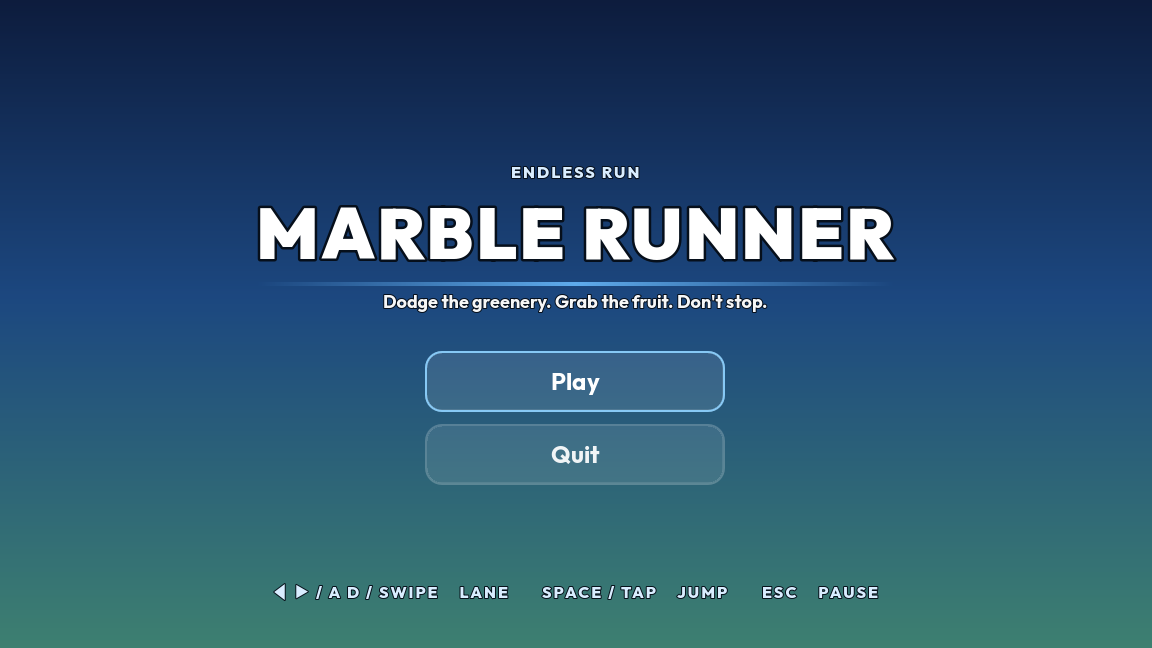
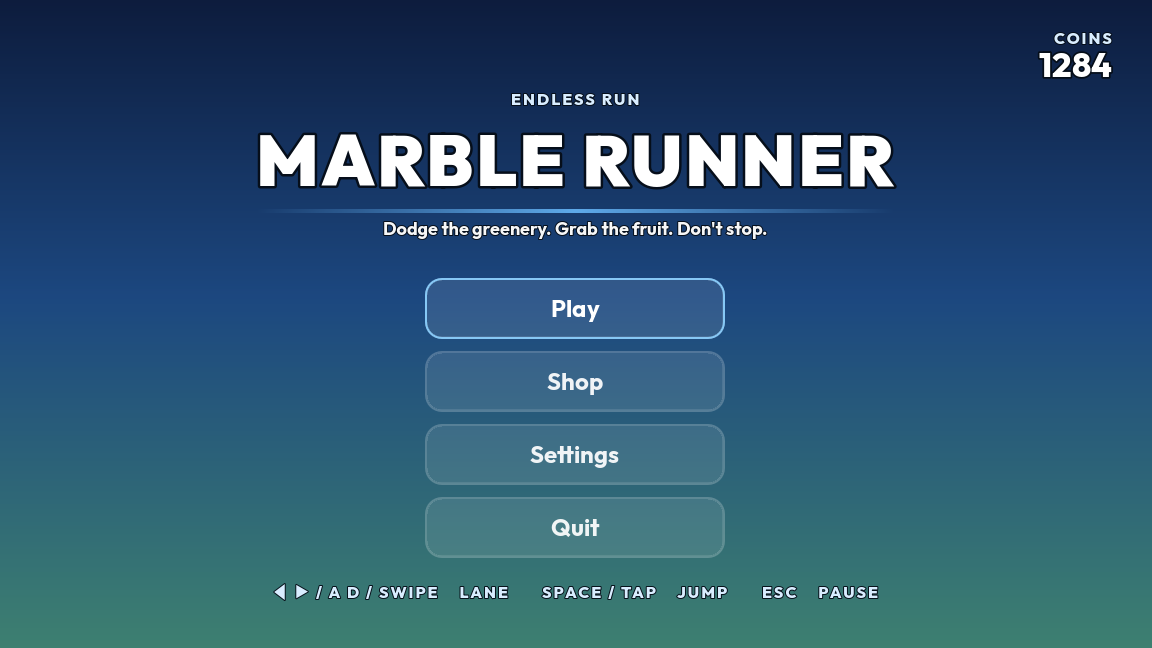
docs: cut the README back and refresh it for the current game
It had grown to a couple of hundred lines and still described a game
with three power-ups, no debuffs, a straight track and no revives.

- Halve the length. Drop How It Works, which docs/architecture.md covers
  properly, and trim every remaining section to what a reader needs.
- Rewrite Features around what the game actually does now: the curve,
  nine obstacles, eight pickups of which three are hostile, streaks,
  coins and biomes.
- Regenerate all four screenshots against the current build, and swap
  the pause shot for the shop.

diff --git a/README.md b/README.md
@@ -8,11 +8,9 @@
 
 **An endless runner that gets faster every metre you survive.**
 
-Roll a marble down a five-lane track that scrolls at you harder the longer you
-last. Dodge trees, bushes and crystals, hurdle the low stuff, grab fruit to
-build a **score multiplier**, and chase power-ups that buy you a few seconds of
-mercy. Obstacles are drawn from a weighted table, so no two runs lay out the
-same way.
+Roll a marble down a winding five-lane track. Dodge what you can't jump, grab
+fruit to build a multiplier, and pick your pickups carefully, because some of
+them are traps.
 
 [**Try it live**](https://kaushalmeena.github.io/marble-runner/)
 
@@ -24,7 +22,7 @@ same way.
 
 <table>
   <tr>
-    <td width="50%"><img src="screenshots/GamePlay.png" alt="Mid-run with a score multiplier and an active shield"></td>
+    <td width="50%"><img src="screenshots/GamePlay.png" alt="Mid-run on a curved desert stretch"></td>
     <td width="50%"><img src="screenshots/MainMenu.png" alt="Title screen"></td>
   </tr>
 </table>
@@ -34,8 +32,8 @@ same way.
 
 <table>
   <tr>
-    <td width="50%"><img src="screenshots/GameOver.png" alt="End-of-run summary with score, best and distance"></td>
-    <td width="50%"><img src="screenshots/PauseMenu.png" alt="Pause overlay"></td>
+    <td width="50%"><img src="screenshots/Shop.png" alt="Marble shop"></td>
+    <td width="50%"><img src="screenshots/GameOver.png" alt="End of run summary"></td>
   </tr>
 </table>
 
@@ -43,52 +41,30 @@ same way.
 
 ## Features
 
-- **Difficulty that ramps, not spikes** — speed climbs smoothly with distance
-  and is capped, while obstacles stay a constant distance apart, so the track
-  gets faster without ever getting unfair.
-- **Eight obstacle types, weighted** — trees, bushes, rocks, logs and crystals
-  across one, two and three lanes, drawn from a table you can re-balance
-  without touching code.
-- **Jump the low ones** — rocks and fallen logs can be cleared, bushes and trees
-  cannot. Which is which falls out of the obstacle's height, not a flag.
-- **Three power-ups** — a shield that eats one hit, a magnet that drags fruit
-  to you, and slow-mo that takes the edge off the speed.
-- **Streaks and near misses** — five fruit in a row steps the multiplier up to
-  ×5, and slipping past an obstacle by a hair pays a bonus.
-- **Four biomes** — meadow, desert, tundra and dusk cross-fade as you go, and
-  loop, so a long run keeps changing.
-- **Plays with anything** — keyboard, or swipe and tap on touch and in the web
-  build.
-
-## How It Works
-
-The marble never actually moves forward. It sits still and the world is pulled
-past it, which is what keeps a genuinely endless track cheap to run:
-
-1. **One loop moves everything** — `Track` owns the position and lifetime of
-   every prop on screen. The props themselves carry no scripts at all.
-2. **Props are pooled** — anything that scrolls past the camera is hidden, taken
-   out of collision, and handed back for the next spawn, so a long run stops
-   allocating.
-3. **Spawning is measured in metres, not seconds** — obstacle spacing stays
-   constant as the speed climbs, so rising speed is the only thing making the
-   game harder.
-4. **The world is recoloured, not rebuilt** — biomes tint the shared materials
-   and the environment, which re-skins every prop at once.
-
-> Every sound effect is generated from scratch by a Python script, so the game
-> ships with no third-party audio and nothing to license.
+- **A road that bends** — the track winds, but the bend is zero where you are
+  standing, so a lane is always a lane.
+- **Nine obstacles** — trees, bushes, rocks, logs and crystals across one to
+  three lanes, plus a hazard that drifts sideways as it comes at you.
+- **Jump the low ones** — rocks and logs clear, bushes and trees don't. Height
+  decides that, not a flag on the prop.
+- **Eight pickups, three of them bad** — rounded and cool-coloured helps you,
+  spiked and red does not.
+- **Streaks and near misses** — five fruit in a row steps the multiplier to ×5,
+  and shaving past an obstacle pays a bonus.
+- **Coins** — spend them on marbles in the shop, or on one more chance when you
+  crash.
+- **Four biomes** that cross-fade as the run gets longer.
 
 ## Tech Stack
 
-| Area         | Tools                                                                                                           |
+| Area         | Tools                                                                                                         |
 | ------------ | --------------------------------------------------------------------------------------------------------------- |
-| **Engine**   | [Godot 4.7](https://godotengine.org/) (Compatibility renderer, for the web export)                               |
-| **Language** | [GDScript 2](https://docs.godotengine.org/en/stable/tutorials/scripting/gdscript/index.html) (statically typed)   |
-| **Art**      | Primitive meshes sharing [StandardMaterial3D](https://docs.godotengine.org/en/stable/classes/class_standardmaterial3d.html) resources |
-| **Type**     | [Outfit](https://fonts.google.com/specimen/Outfit) variable font                                                 |
-| **Audio**    | Generated offline with Python's [`wave`](https://docs.python.org/3/library/wave.html) module                     |
-| **Hosting**  | [GitHub Pages](https://pages.github.com/) via [gh-pages](https://github.com/tschaub/gh-pages)                    |
+| **Engine**   | [Godot 4.7](https://godotengine.org/), Compatibility renderer for the web build                                |
+| **Language** | [GDScript 2](https://docs.godotengine.org/en/stable/tutorials/scripting/gdscript/index.html), statically typed  |
+| **Art**      | Primitive meshes, shared materials, one shader for the curved ground                                           |
+| **Type**     | [Outfit](https://fonts.google.com/specimen/Outfit)                                                             |
+| **Audio**    | Generated with Python's [`wave`](https://docs.python.org/3/library/wave.html) module                           |
+| **Hosting**  | [GitHub Pages](https://pages.github.com/)                                                                      |
 
 ## Getting Started
 
@@ -100,7 +76,6 @@ local machine for development purposes.
 To install and run this project you need:
 
 - [Godot 4.7](https://godotengine.org/download/) or newer
-- [Node.js](https://nodejs.org/) 18+ (only to deploy the web build)
 - [git](https://git-scm.com/downloads) (only to clone this repository)
 
 ### Installation
@@ -114,18 +89,11 @@ git clone https://github.com/kaushalmeena/marble-runner.git
 cd marble-runner
 ```
 
-2. Import the project, either by opening `project.godot` in the Godot editor or
-   by letting the engine do it from the command line:
+2. Import the project, either by opening `project.godot` in the editor or from
+   the command line:
 
 ```bash
 godot --headless --import
-```
-
-3. Install the deploy tooling, only if you intend to publish by hand rather
-   than letting CI do it:
-
-```bash
-npm install
 ```
 
 ### Running
@@ -136,12 +104,6 @@ To play the game:
 godot
 ```
 
-To skip the menu and drop straight into a run:
-
-```bash
-godot res://game/game.tscn
-```
-
 ### Building
 
 To export the web build:
@@ -150,34 +112,22 @@ To export the web build:
 godot --headless --export-release "Web" dist/web/index.html
 ```
 
-The build output is written to the `dist/web` folder. The `Web` preset is
-committed in `export_presets.cfg`, so this works on a fresh clone as long as
-the matching export templates are installed.
+Output lands in `dist/web`. The `Web` preset is committed, so this works on a
+fresh clone once the matching export templates are installed.
 
 ## Usage
-
-Once a run starts, the whole game is three inputs:
 
 | Action       | Keyboard             | Touch or mouse   |
 | ------------ | -------------------- | ---------------- |
 | Switch lanes | `←` `→` or `A` `D`   | Swipe left/right |
 | Jump         | `Space`, `↑` or `W`  | Swipe up, or tap |
 | Pause        | `Esc` or `P`         | —                |
-| Menus        | Arrow keys, `Enter`  | Click            |
-
-Only the low obstacles can be jumped. Rocks and fallen logs clear at the top of
-the arc; bushes, trees and crystals have to be gone around.
 
 ## Deployment
 
-Every push to `main` is exported and published to GitHub Pages by the
-[deploy workflow](.github/workflows/deploy.yml). It downloads the pinned Godot
-version and its export templates, caches them, exports the `Web` preset and
-uploads the result — no manual step.
-
-This needs **Settings → Pages → Source** set to **GitHub Actions** once. The
-`npm run deploy` script remains as a manual fallback, but it publishes to the
-`gh-pages` branch, so only one of the two can be the live source at a time.
+Pushing to `main` exports the game and publishes it to GitHub Pages, via the
+[deploy workflow](.github/workflows/deploy.yml). Pages needs its source set to
+GitHub Actions for that to land.
 
 ## Credits
 
@@ -188,17 +138,11 @@ This needs **Settings → Pages → Source** set to **GitHub Actions** once. The
 
 Full documentation is available in the [`/docs`](./docs) directory.
 
-**Understanding the project:**
-
 - [Architecture](./docs/architecture.md) — how the world scrolls past a
-  stationary marble, and which parts are allowed to know about each other.
-
-**Extending it:**
-
+  stationary marble, and which parts know about each other.
 - [Adding an Obstacle](./docs/adding-obstacles.md) — the scene, the spawn entry,
-  and why height alone decides whether something can be jumped.
-- [Biomes](./docs/biomes.md) — how the palette cross-fades with distance, and
-  what to fill in to add one.
+  and why height alone decides what can be jumped.
+- [Biomes](./docs/biomes.md) — how the palette cross-fades with distance.
 
 ## Contributing
 
